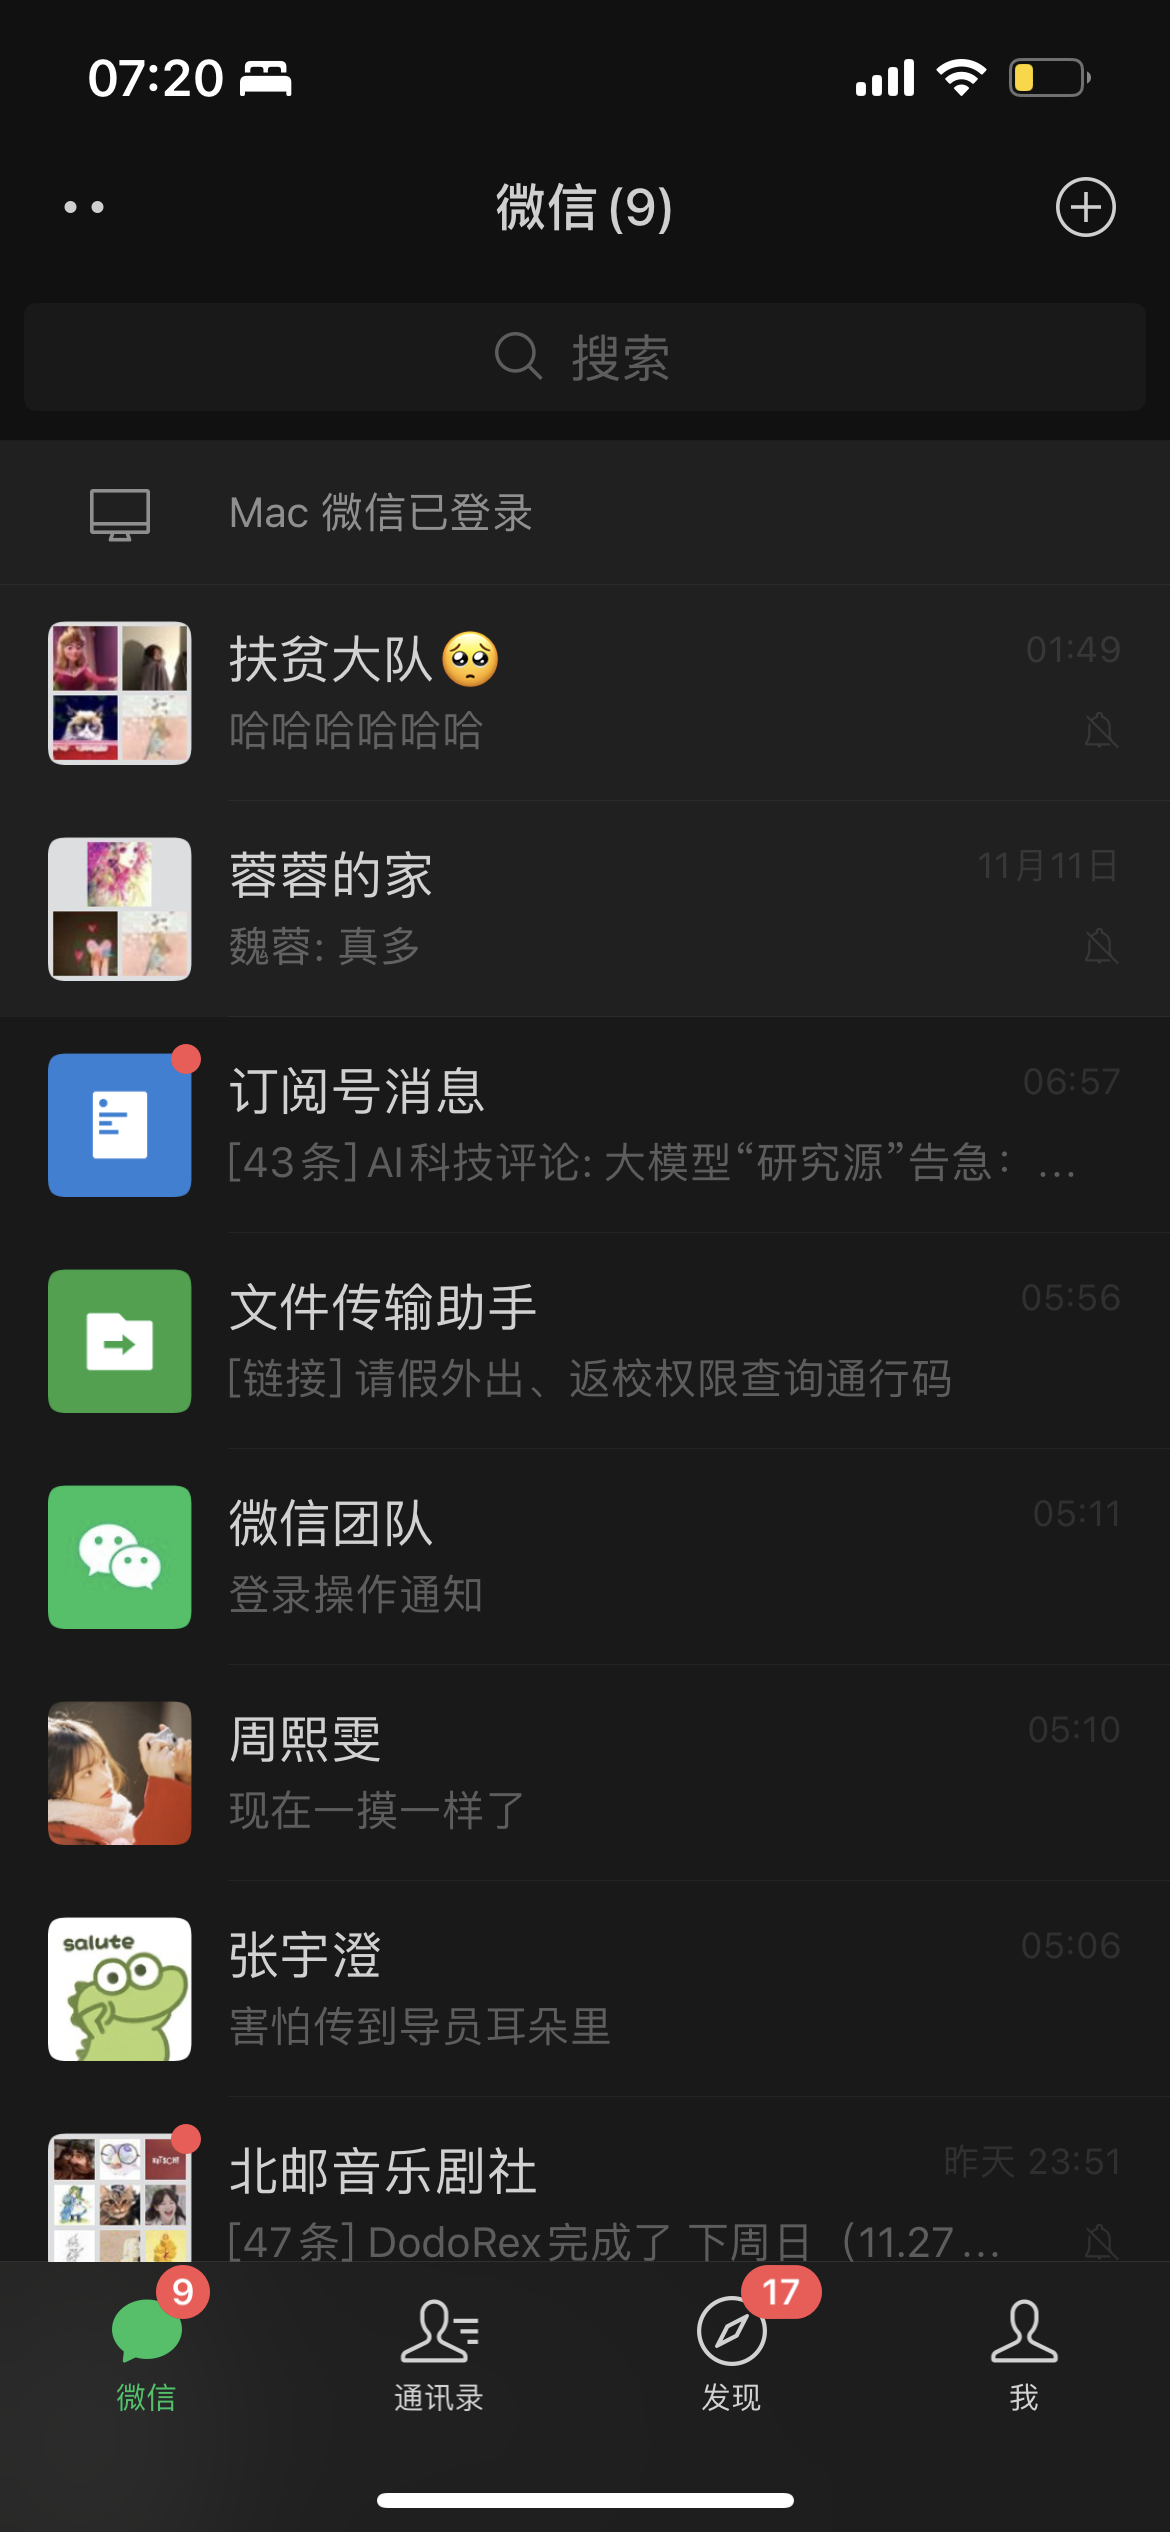
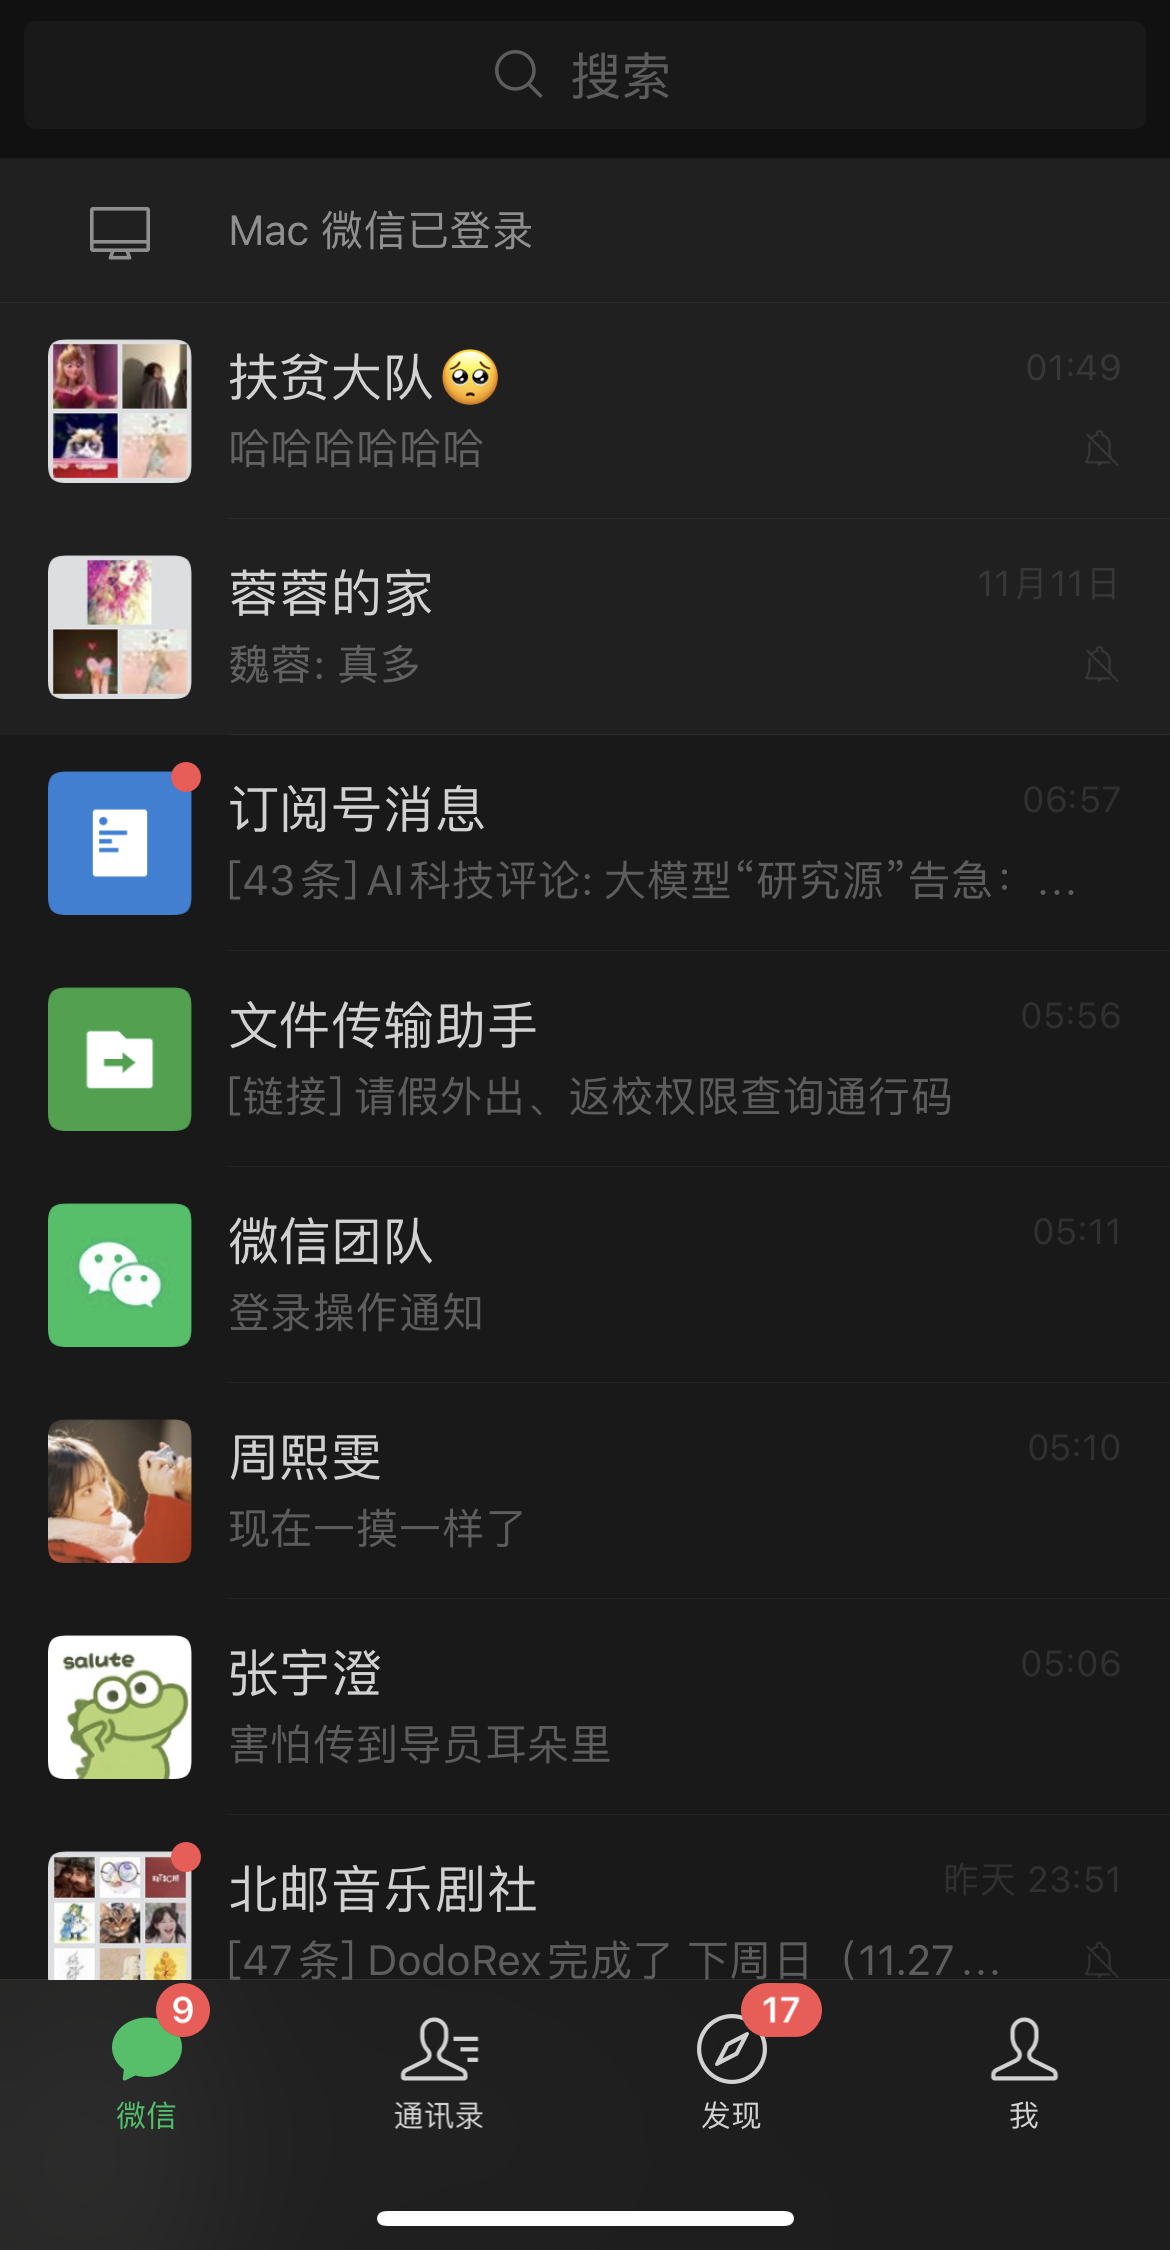
Add files via upload

diff --git a/index.html b/index.html
@@ -3,6 +3,7 @@
 
 <head>
   <meta charset="utf-8" name="viewport" content="width=device-width, initial-scale=1" />
+  <title>微信</title>
 </head>
 <style>
   body {
@@ -67,7 +68,7 @@
           windowH = window.innerHeight;
 
           imageW = 1170;
-          imageH = 2532;
+          imageH = 2250;
 
           document.getElementById("press").setAttribute("coords", newcoords(1085,210,200));
       }
